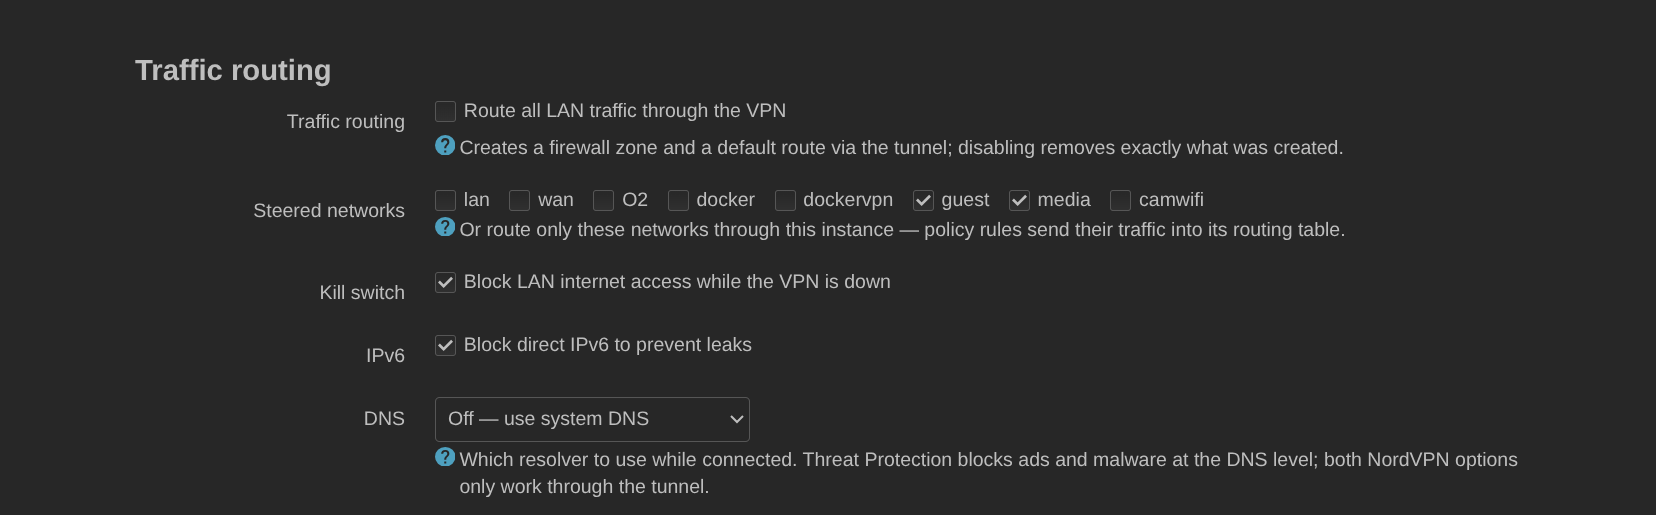
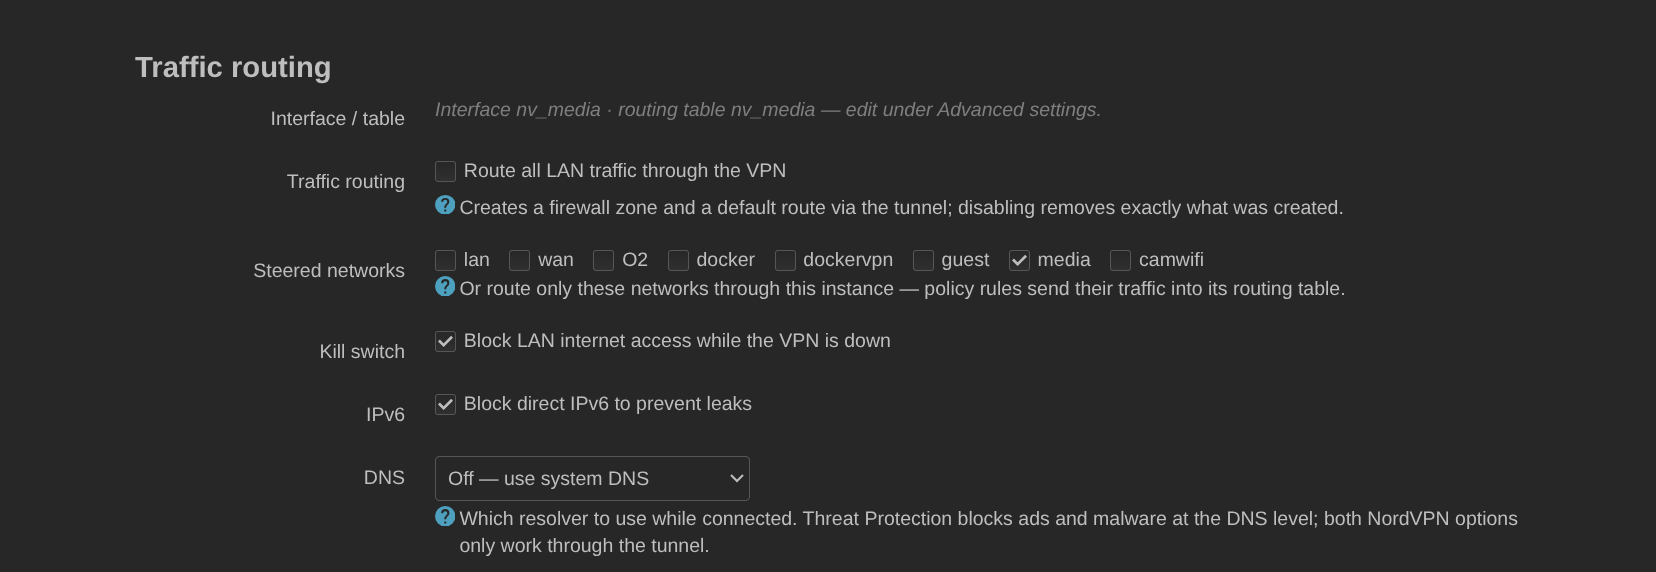
docs: routing detection wording, panel screenshots, RU/DE sync
Document that a bare routing table is not manual (tick a Steered network to
use it), and that a table with no rules and no steered network stays in the
hands-off 'none' mode. Refresh the overview/routing/advanced screenshots for
the new context line and interface warning; mirror the wording into the
Russian and German READMEs.

diff --git a/README.ru.md b/README.ru.md
@@ -341,10 +341,11 @@ list** (Обновить список серверов) в интерфейсе 
 туннеля. При каждом apply бэкенд сначала *определяет* текущую схему:
 
 - **Manual** (Ручная) — существуют непомеченные маршруты/правила, ссылающиеся
-  на VPN-интерфейс, или настроена таблица маршрутизации без направления
-  трафика. Тогда пакет никогда не трогает маршрутизацию или файрвол; панель
-  чисто информационная (с предупреждением об утечке IPv6, когда на WAN есть
-  IPv6).
+  на VPN-интерфейс (или лежащие в таблице маршрутизации инстанса). Тогда пакет
+  никогда не трогает маршрутизацию или файрвол; панель чисто информационная (с
+  предупреждением об утечке IPv6, когда на WAN есть IPv6). Сама по себе таблица
+  маршрутизации — **не** ручной режим: отметьте для неё **Steered network**
+  (направляемую сеть), чтобы её использовать, либо добавьте свои policy-правила.
 
   ![Обнаружена ручная маршрутизация](docs/screenshots/routing-manual.png)
 
@@ -385,7 +386,10 @@ list** (Обновить список серверов) в интерфейсе 
 
 Задайте **Routing table** (Таблица маршрутизации; в Advanced), чтобы направить
 VPN-трафик через отдельную таблицу (`ip4table`/`ip6table` на интерфейсе), затем
-добавьте правила в **Network → Routing → Policy Routing**.
+добавьте правила в **Network → Routing → Policy Routing**. Панель переключается
+в *Manual*, как только эти правила появятся; таблица без правил и без
+направляемой сети остаётся в режиме *none* (пакет ничего не делает), а не
+manual — так элементы управления маршрутизацией остаются видимыми.
 
 ## Безопасность
 

diff --git a/README.de.md b/README.de.md
@@ -346,9 +346,12 @@ Das **Traffic-Routing**-Panel entscheidet, wie der Traffic den Tunnel erreicht.
 Bei jedem apply *erkennt* das Backend zunächst das aktuelle Schema:
 
 - **Manuell** — es existieren ungestempelte Routen/Regeln, die das
-  VPN-Interface referenzieren, oder eine Routing-Tabelle ist ohne Steuerung
-  konfiguriert. Das Paket berührt dann niemals Routing oder Firewall; das Panel
-  ist rein informativ (mit einer IPv6-Leck-Warnung, wenn das WAN IPv6 hat).
+  VPN-Interface referenzieren (oder in der Routing-Tabelle der Instanz liegen).
+  Das Paket berührt dann niemals Routing oder Firewall; das Panel ist rein
+  informativ (mit einer IPv6-Leck-Warnung, wenn das WAN IPv6 hat). Eine
+  Routing-Tabelle allein ist **nicht** manuell — hake für sie ein **Steered
+  network** (gesteuertes Netz) an, um sie zu nutzen, oder füge eigene
+  Policy-Regeln hinzu.
 
   ![Manuelles Routing erkannt](docs/screenshots/routing-manual.png)
 
@@ -388,7 +391,10 @@ Lua-App behalten `auto_routing '0'`.
 
 Setze **Routing-Tabelle** (Advanced), um VPN-Traffic durch eine separate Tabelle
 zu leiten (`ip4table`/`ip6table` auf dem Interface), und füge dann Regeln unter
-**Network → Routing → Policy Routing** hinzu.
+**Network → Routing → Policy Routing** hinzu. Das Panel wechselt zu *Manuell*,
+sobald diese Regeln existieren; eine Tabelle ohne Regeln und ohne gesteuertes
+Netz bleibt im Modus *none* (das Paket tut nichts) statt manuell, sodass die
+Routing-Bedienelemente sichtbar bleiben.
 
 ## Sicherheit
 

diff --git a/README.md b/README.md
@@ -324,10 +324,11 @@ serialized with a lock, and a failed refresh keeps the previous good cache.
 The **Traffic routing** panel decides how traffic reaches the tunnel.
 On every apply the backend first *detects* the current scheme:
 
-- **Manual** — unstamped routes/rules referencing the VPN interface exist, or
-  a routing table is configured without steering. The package then never
-  touches routing or firewall; the panel is purely informational (with an
-  IPv6-leak warning when the WAN has IPv6).
+- **Manual** — unstamped routes/rules referencing the VPN interface (or living
+  in the instance's routing table) exist. The package then never touches
+  routing or firewall; the panel is purely informational (with an IPv6-leak
+  warning when the WAN has IPv6). A routing table on its own is **not** manual —
+  tick it a **Steered network** to use it, or add your own policy rules.
 
   ![Manual routing detected](docs/screenshots/routing-manual.png)
 
@@ -364,7 +365,10 @@ modified. Upgrades from the legacy Lua app keep `auto_routing '0'`.
 
 Set **Routing table** (Advanced) to route VPN traffic through a separate table
 (`ip4table`/`ip6table` on the interface), then add rules under
-**Network → Routing → Policy Routing**.
+**Network → Routing → Policy Routing**. The panel switches to *Manual* once
+those rules exist; a table with no rules and no steered network is left in
+*none* mode (the app does nothing) rather than manual, so the routing controls
+stay visible.
 
 ## Security
 
